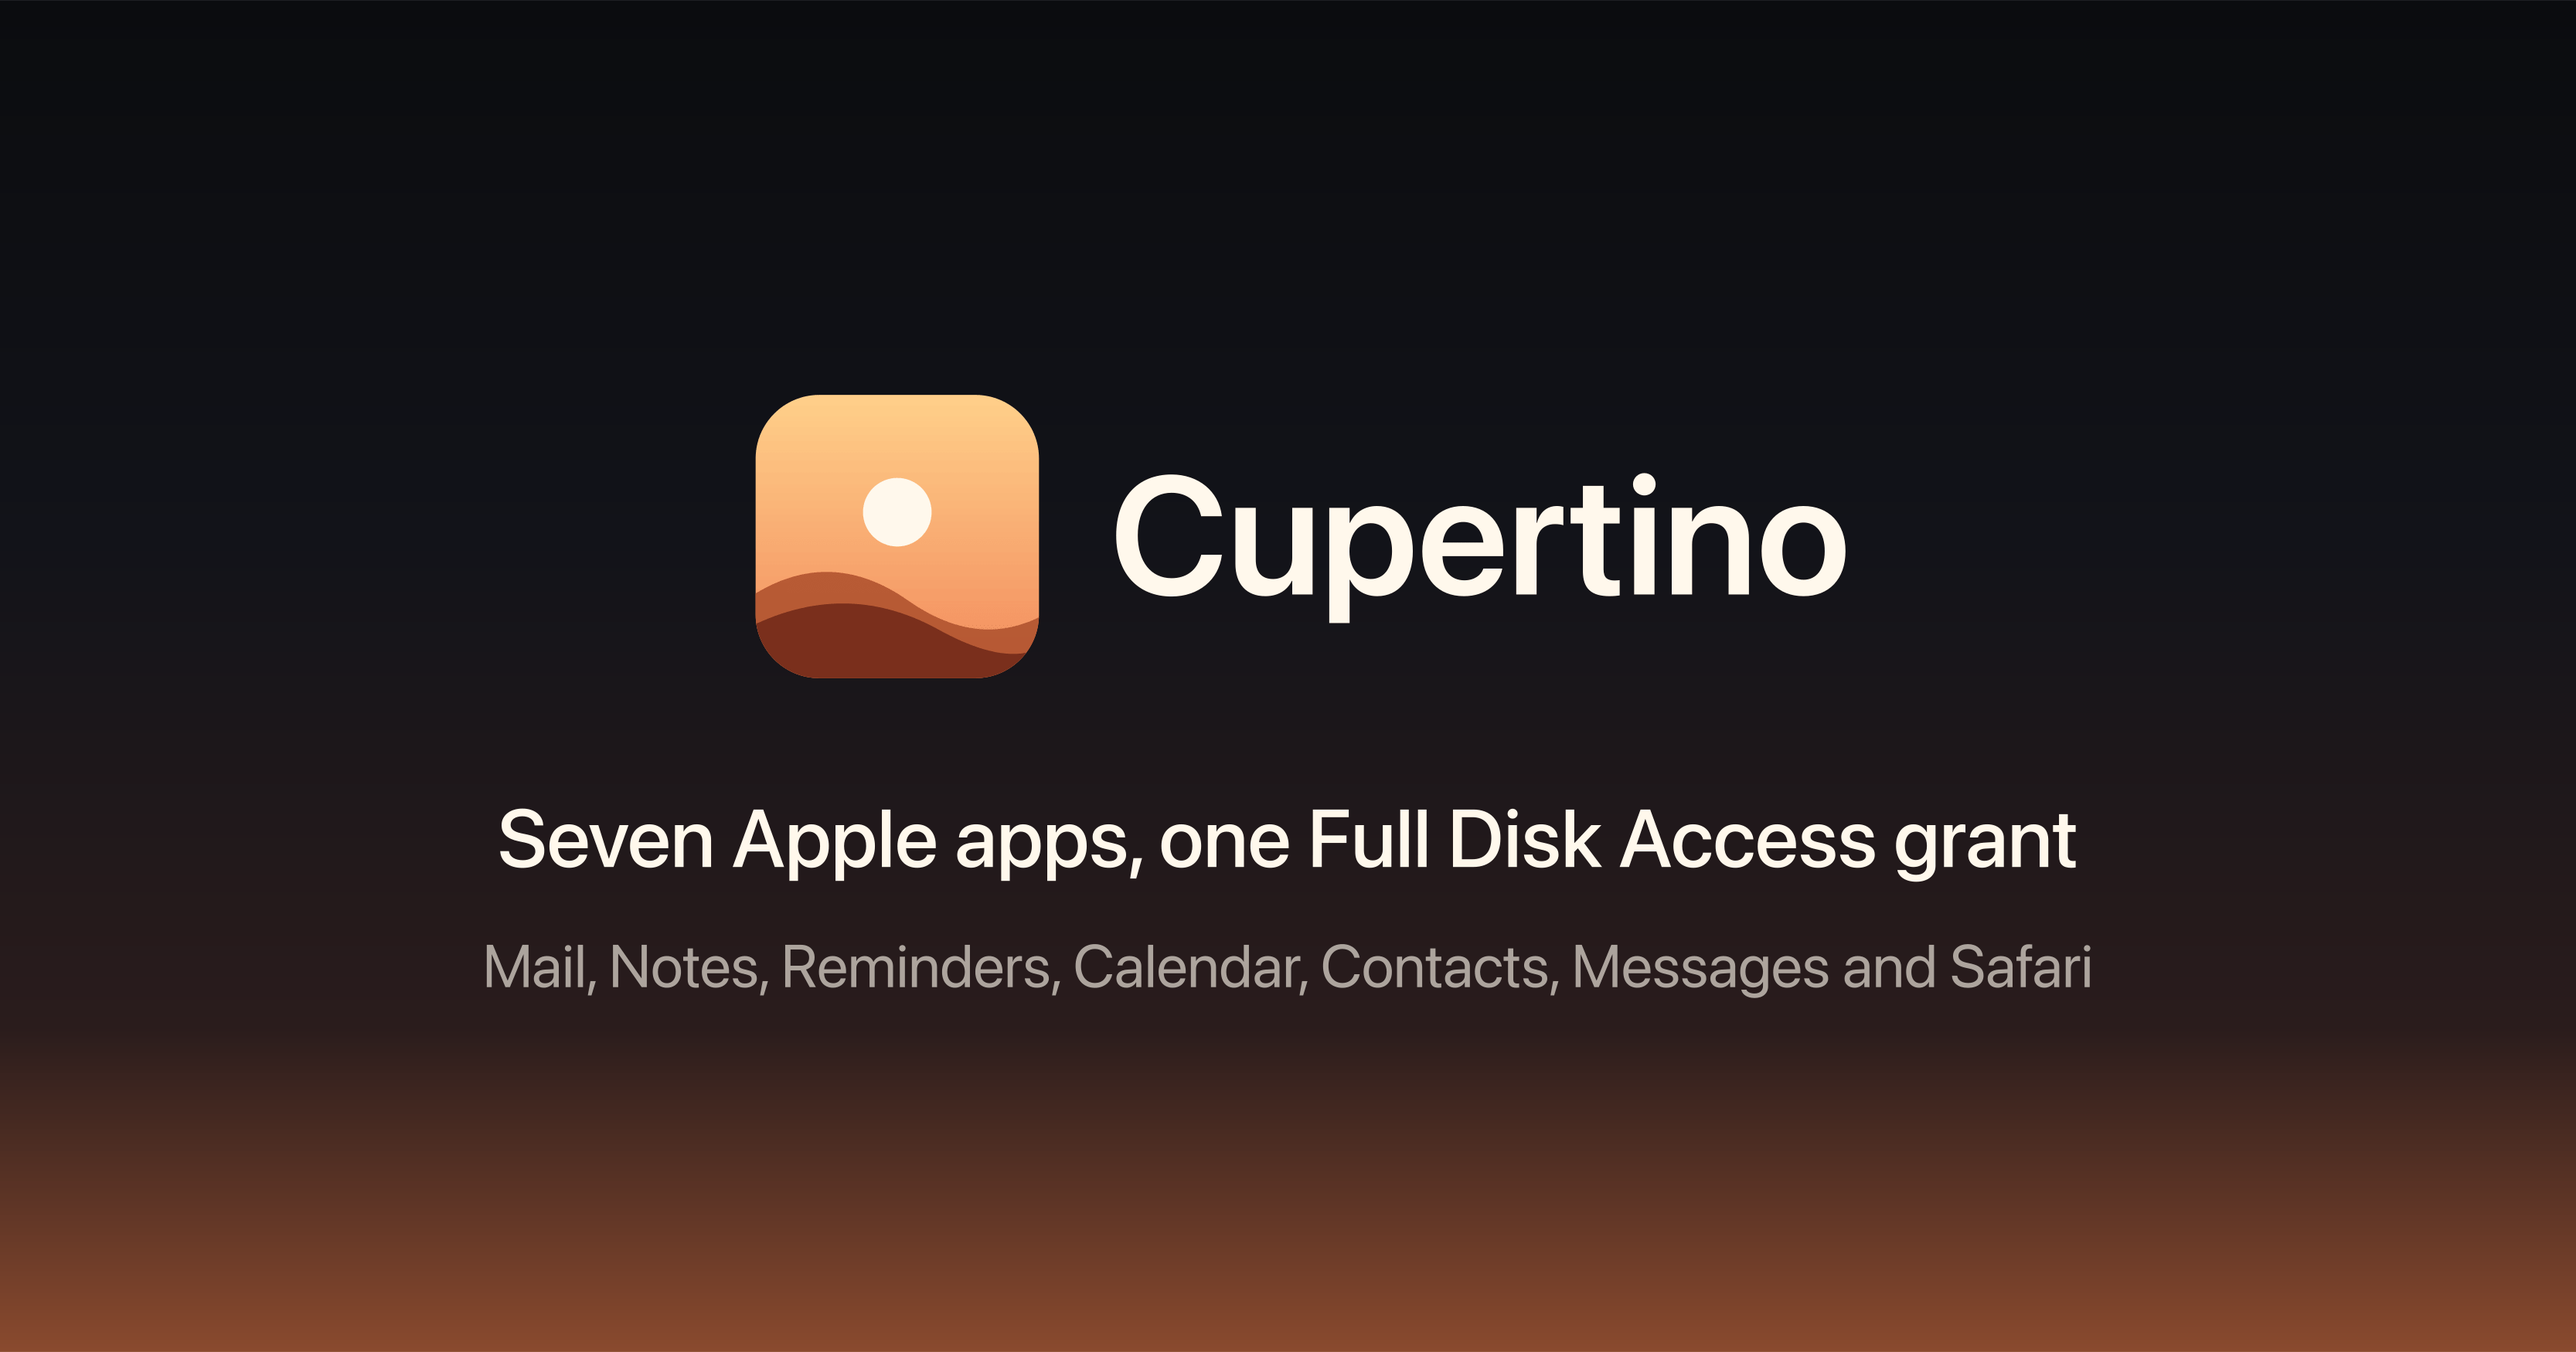
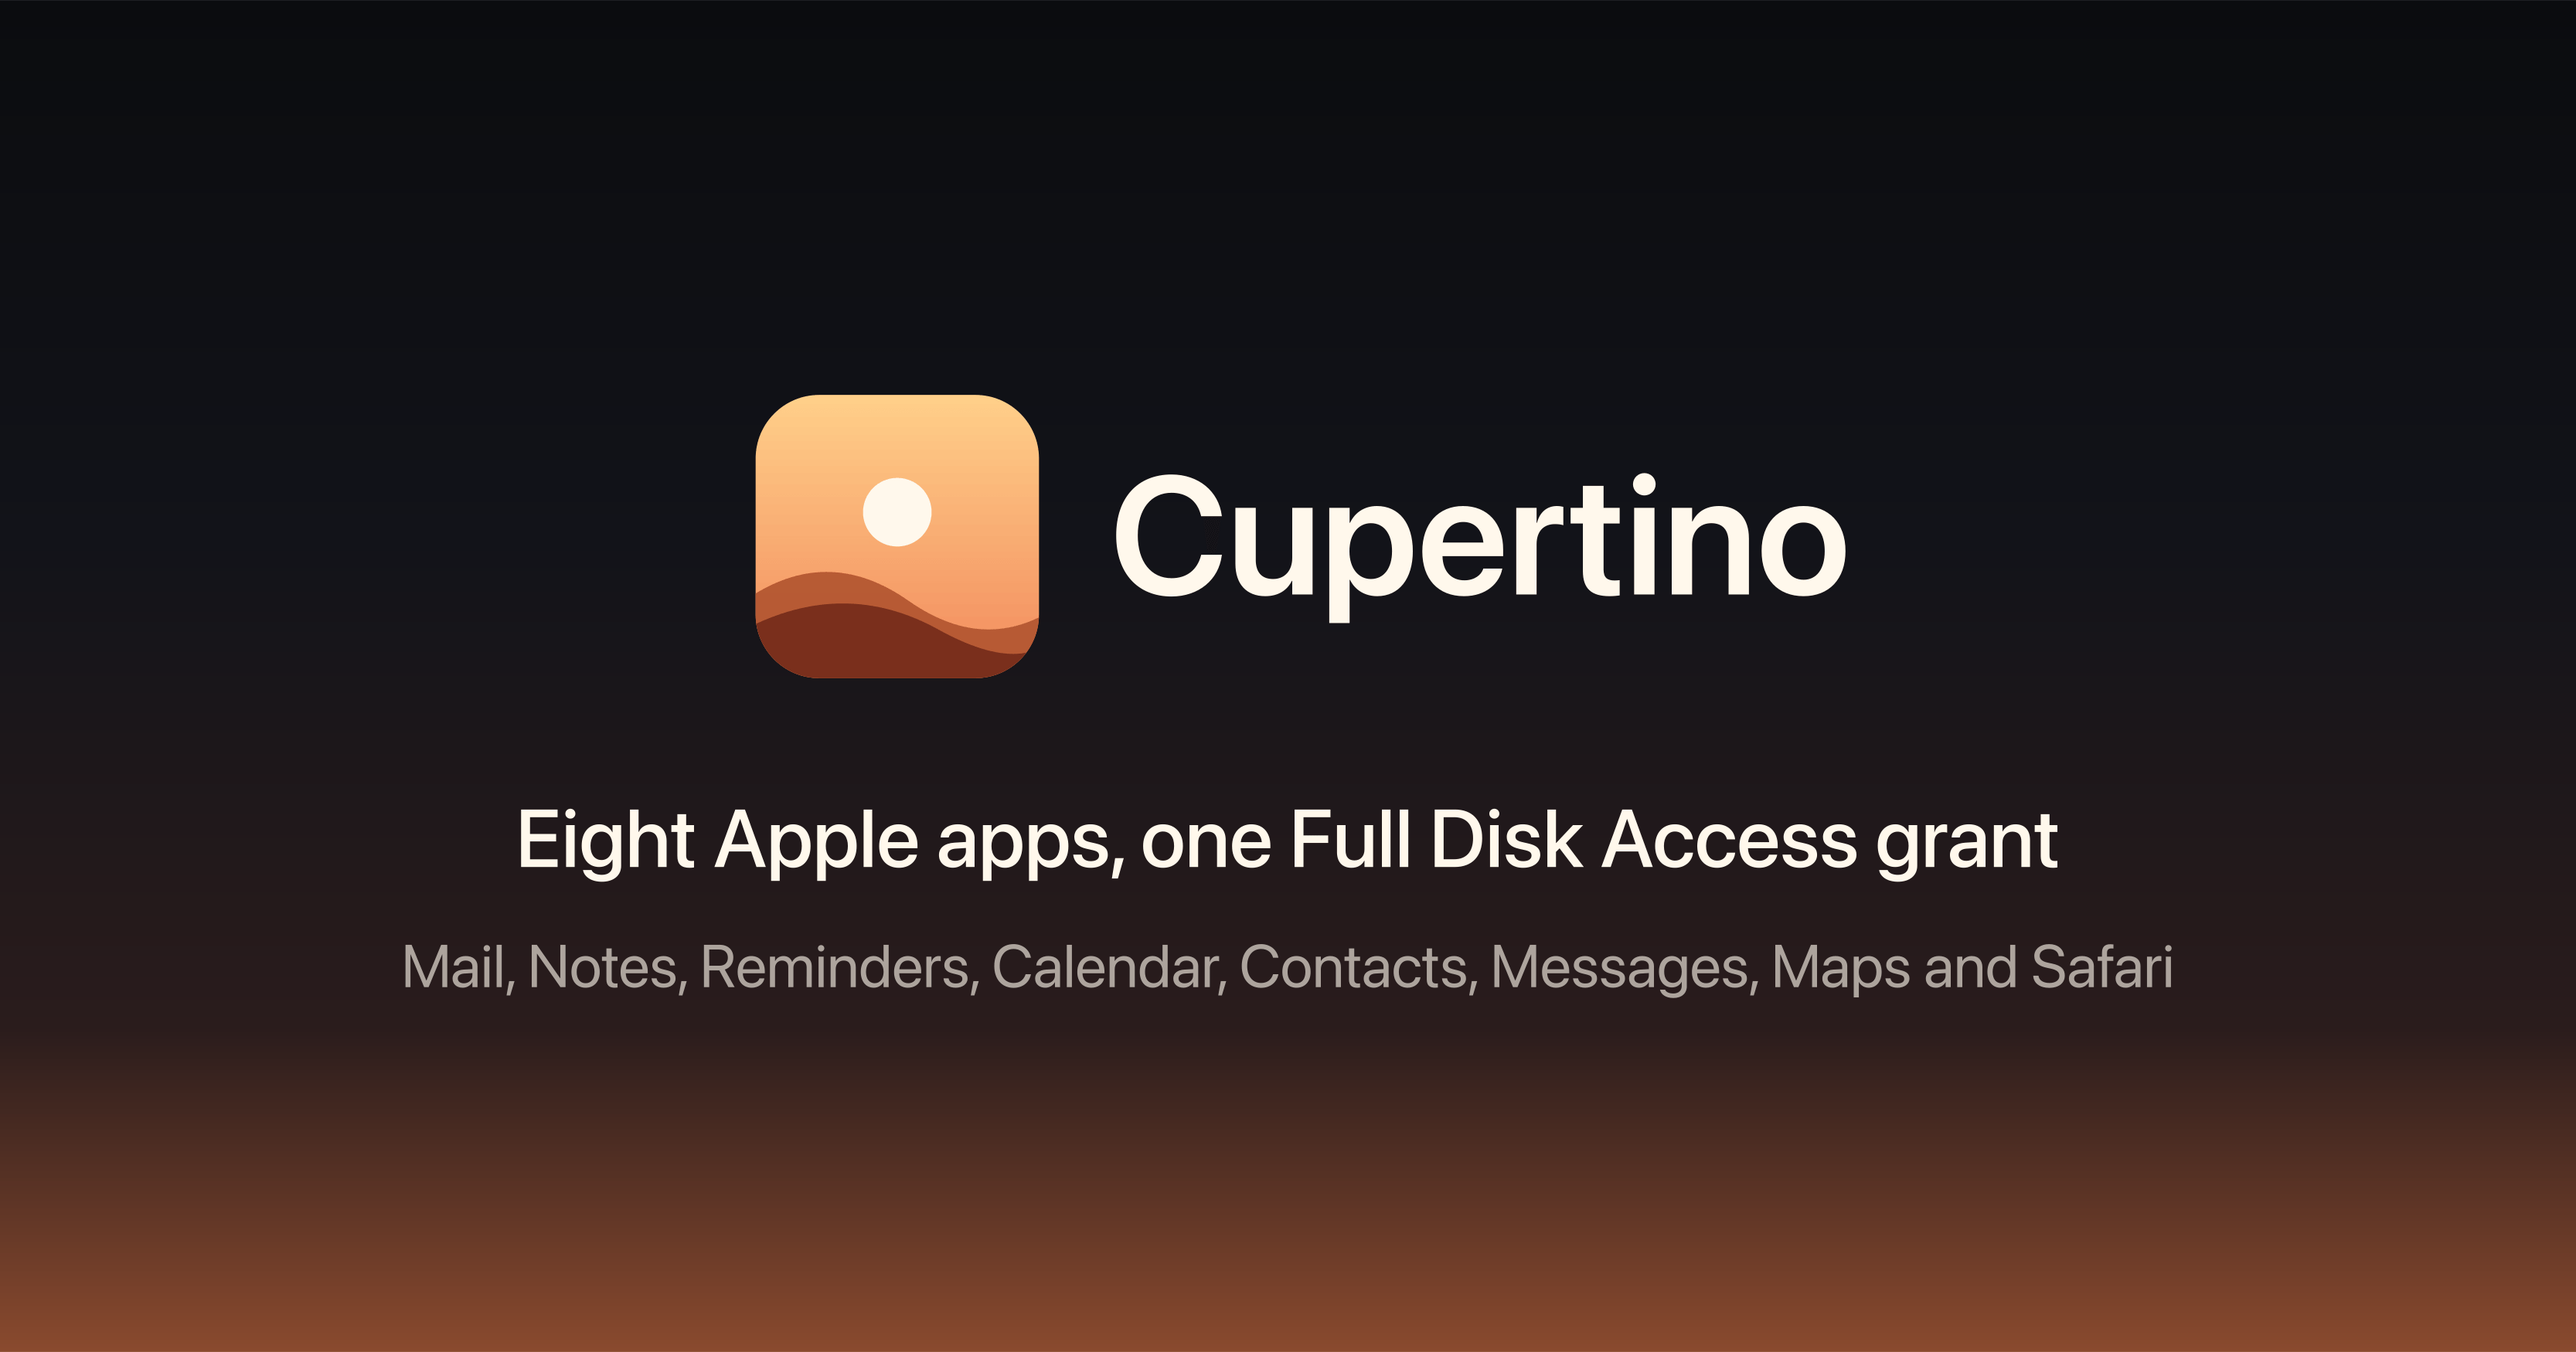
fix(website): spell the surface count past seven
SPELLED ran out at "seven" the day Maps shipped, and the fallback is
String(length) — so the social card read "8 Apple apps", the exact
spec-sheet digit the array exists to prevent. Nothing in CI reads a
picture, so no gate saw it.

Padded to ten rather than to eight: a list that ends at today's count
fails the same way on the next surface.

Changed region(s): [[0.1872, 0.5863, 0.8113, 0.648], [0.156, 0.6789, 0.8425, 0.7406]]

diff --git a/apps/website/src/config.ts b/apps/website/src/config.ts
@@ -38,8 +38,26 @@ export const X_HANDLE = "@mgcrea";
  * Small counts are spelled out; a digit mid-sentence reads as a spec sheet.
  * Exported because headings need it too: the Surfaces heading used to open with
  * a literal "Four", which is exactly the drift this file exists to prevent.
+ *
+ * It ran out at "seven" the day Maps shipped, and the fallback is
+ * `String(length)` — so the social card read "8 Apple apps", the exact spec-sheet
+ * digit the rule above exists to prevent, in a picture nothing in CI looks at.
+ * Padded past the current count on purpose: a list that ends at today's number
+ * fails silently again on the next surface.
  */
-export const SPELLED = ["no", "one", "two", "three", "four", "five", "six", "seven"];
+export const SPELLED = [
+  "no",
+  "one",
+  "two",
+  "three",
+  "four",
+  "five",
+  "six",
+  "seven",
+  "eight",
+  "nine",
+  "ten",
+];
 
 /** "Mail, Notes, Reminders and Calendar" — however many there turn out to be. */
 const surfaceList = SURFACES.map((s) => s.name)
